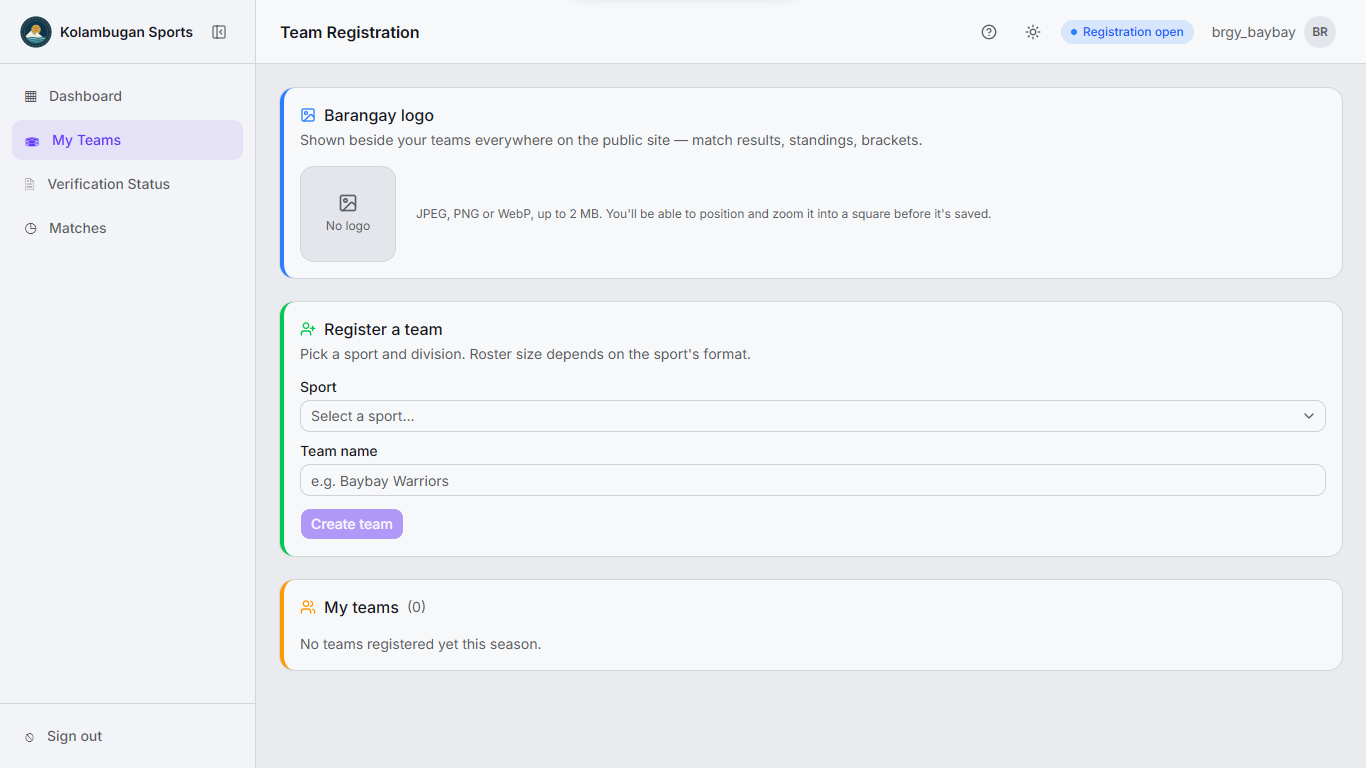
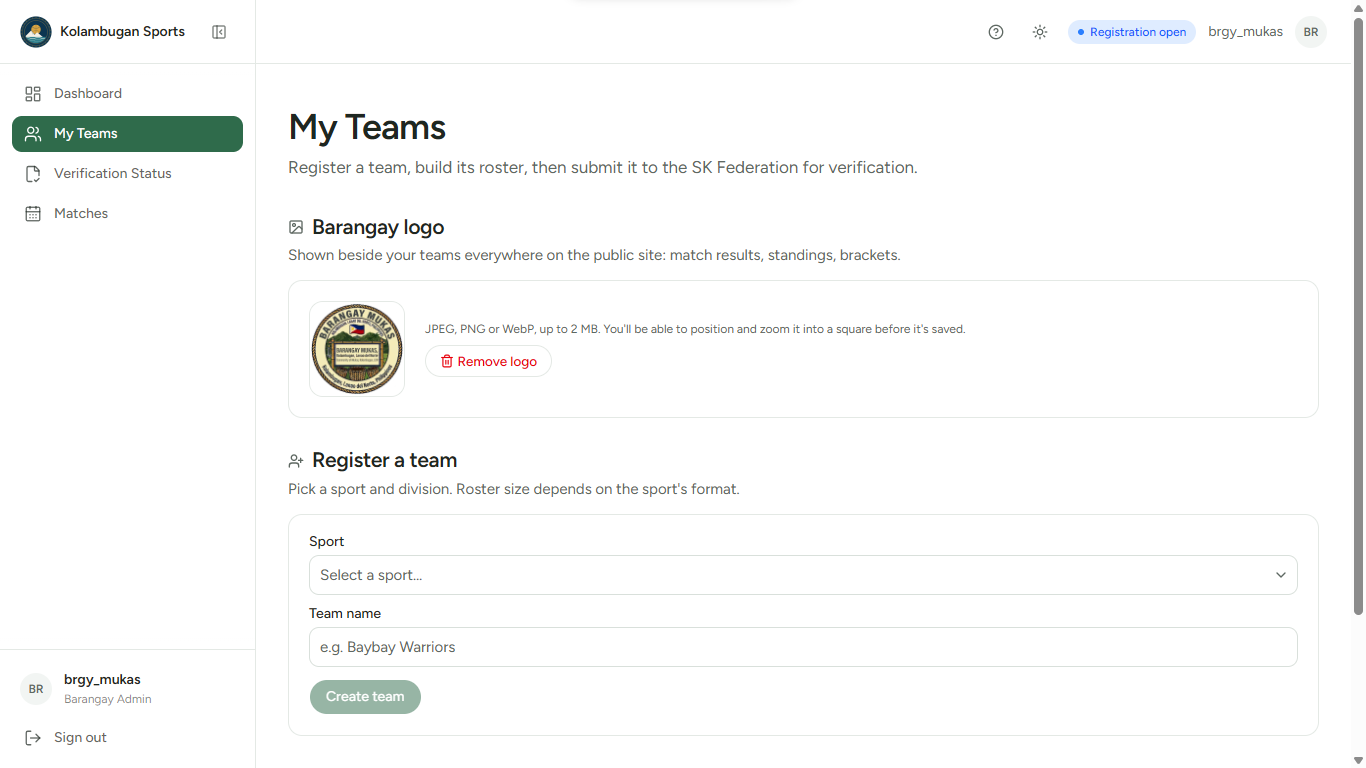
Instruction guide: new screenshots for the redesigned admin, old ones removed

diff --git a/frontend/src/lib/instructionContent.js b/frontend/src/lib/instructionContent.js
@@ -38,11 +38,7 @@ const RAW_STEPS = {
       description:
         "Everything else in the app is scoped to whichever season is active. A season runs through five stages (setup, registration, verification, ongoing, completed), and only you can advance it.",
       icon: CalendarRange,
-      shots: [
-        ["create-season.png", "No season yet: tap Create Season"],
-        ["create-season-modal.png", "Name the season"],
-        ["create-season-dashboard.png", "The season page: its stage, and a checklist before you move on"],
-      ],
+      shots: [["create-season.png", "The Season page: its stage, the seasons before it, and Create New Season"]],
     },
     {
       title: "Reference List",
@@ -51,8 +47,7 @@ const RAW_STEPS = {
       icon: ClipboardList,
       shots: [
         ["reference-list.png", "The Reference List page"],
-        ["reference-list-upload.png", "Upload the CSV"],
-        ["reference-list-uploadedlist.png", "The uploaded list, searchable"],
+        ["reference-upload.png", "Choose the CSV, then tap Upload & Replace List"],
       ],
     },
     {
@@ -61,9 +56,8 @@ const RAW_STEPS = {
         "Players the system can't confirm land here as “needs document” or “flagged.” Open a player to compare their photo against their submitted ID, then Approve or Reject. Rejecting removes the player and reopens the roster so the barangay can fix it.",
       icon: UserCheck,
       shots: [
-        ["review-queue.png", "Teams waiting for review, filtered by barangay"],
-        ["review-queue-modal.png", "A player's photo, details and documents side by side"],
-        ["review-queue-modal-2.png", "Approve or reject the player"],
+        ["review-queue.png", "Pick a barangay: red shows how many teams are waiting"],
+        ["review-queue-modal.png", "A player's photo, details and documents side by side, then Approve or Reject"],
       ],
     },
     {
@@ -72,8 +66,9 @@ const RAW_STEPS = {
         "Configure each sport's divisions, roster format, scoring rules and after-match score sheet here, and which barangays may field players from other barangays. Set these before registration opens, since changing them afterward would invalidate rosters already built against the old settings.",
       icon: Settings2,
       shots: [
-        ["league-setup-games.png", "Games: divisions, entry format, scoring and score sheet"],
-        ["league-setup-brgy.png", "Barangays: who may field players from other barangays"],
+        ["league-setup.png", "Games: every game with its divisions, entry and draw"],
+        ["league-setup2.png", "Open a game and set it up step by step"],
+        ["league-setup3.png", "Barangays: who may field players from other barangays"],
       ],
     },
     {
@@ -104,12 +99,12 @@ const RAW_STEPS = {
     {
       title: "Your profile & recovery code",
       description:
-        "Tap your name at the top right to change your password or add a profile photo. Generate a recovery code and keep it somewhere safe: it's the only way back in if you forget your password, since no one can reset a Super Admin's password for you.",
+        "Tap your name above Sign out (bottom of the sidebar) to change your password, add a profile photo or a Dashboard banner picture. Generate a recovery code and keep it somewhere safe: it's the only way back in if you forget your password, since no one can reset a Super Admin's password for you.",
       icon: UserCircle,
       shots: [
-        ["profile.png", "Your name at the top right opens your profile"],
-        ["profile-info.png", "Change your password, or set up account recovery"],
-        ["profile-generated-recovery.png", "A new recovery code is shown only once. Save it"],
+        ["profile.png", "Your name above Sign out opens your profile"],
+        ["profile-info.png", "Profile photo, Dashboard banner and password"],
+        ["profile-recovery.png", "Account recovery: enter your password to generate a code. It's shown only once"],
       ],
     },
   ],
@@ -127,11 +122,10 @@ const RAW_STEPS = {
         "From My Teams, pick a sport and division, name the team, then open its roster and add players: name, birthdate, address, jersey number, and a close-up photo. You can also import a CSV.",
       icon: UserPlus,
       shots: [
-        ["teams.png", "My Teams"],
-        ["teams-create.png", "Pick the sport"],
-        ["teams-create-2.png", "Name the team and tap Create team"],
-        ["teams-created.png", "The new team is a draft. Tap Edit roster"],
-        ["teams-modal-edit-roster.png", "Add your players"],
+        ["teams.png", "My Teams: your barangay logo and Register a team"],
+        ["team-create.png", "Pick the sport and division, name the team, tap Create team"],
+        ["team-created.png", "The new team is a draft. Tap Edit roster"],
+        ["team-modal-edit-roster.png", "Add your players one by one, or Import CSV"],
       ],
     },
     {
@@ -141,7 +135,7 @@ const RAW_STEPS = {
       icon: ClipboardList,
       shots: [
         ["verification-status.png", "Verification Status: every player's result"],
-        ["verification-status-document.png", "Pick the document type and upload the file"],
+        ["verification-status-document.png", "Pick the document type, then choose the file"],
       ],
     },
     {
@@ -149,7 +143,7 @@ const RAW_STEPS = {
       description:
         "Once your roster meets the size limit, submit it. It locks and gets screened automatically. Watch each player's status turn eligible, or follow up if one comes back flagged.",
       icon: Send,
-      shots: [["teams-submit-modal.png", "Roster ready: tap Submit roster"]],
+      shots: [["team-submit-modal.png", "Roster ready: tap Submit roster"]],
     },
     {
       title: "Follow your matches",
@@ -164,10 +158,7 @@ const RAW_STEPS = {
       title: "Welcome, Organizer",
       description: "You score matches for your assigned sport, courtside, in real time. The Dashboard shows the game being played now, today's schedule and how far each bracket has got.",
       icon: Radio,
-      shots: [
-        ["dashboard-1.png", "Your Dashboard"],
-        ["dashboard-2.png", "Today, the schedule, bracket progress and recent results"],
-      ],
+      shots: [["dashboard.png", "Your Dashboard: your sport, the season, today's games and what needs attention"]],
     },
     {
       title: "Find your match",
@@ -182,7 +173,7 @@ const RAW_STEPS = {
         "Pick how many periods you're playing, tap Start, then tap the team that scored (+1, +2 or +3 in basketball). Scoring is by team. You don't pick players while the game runs. Everything updates live on the public site as you go.",
       icon: Play,
       shots: [
-        ["start.png", "Choose the number of periods and tap Start"],
+        ["start.png", "Choose the number of periods and tap Start match"],
         ["scoring.png", "Tap the team that scored"],
       ],
     },
@@ -198,6 +189,7 @@ const RAW_STEPS = {
       description:
         "After the match, a score sheet lists every player. Fill in the columns the Super Admin set up for your sport (for example points, fouls, rebounds, blocks and assists in basketball; the role each player played, and kills / deaths / assists, in esports). Leave a player blank if they didn't play, choose the MVP and Save. You can come back and correct it later.",
       icon: ClipboardList,
+      shots: [["scoresheet.png", "Player stats: each player's totals, team by team, then Save"]],
     },
   ],
 };

diff --git a/CLAUDE.md b/CLAUDE.md
@@ -2437,7 +2437,7 @@ Repo: one git repo, two folders. `backend/` (Express + MongoDB Atlas;
   `StepShots` shows one large + a thumbnail strip of all of them; clicking the
   large one opens the shared zoomable `Lightbox` (`components/DocumentViewer.jsx`)
   in gallery mode (`onPrev`/`onNext`/`caption`/`position`). A step with no shots
-  shows its icon (Organizer "Fill in the player stats" has none yet).
+  shows its icon. **All screenshots re-captured Oct 3 2026** after the white admin / banner redesign (32 pictures; the old ones were deleted; Organizer "Fill in the player stats" now has ).
   **The modal has a FIXED height** (`h-[92dvh] md:h-[min(92dvh,760px)]`, `sm:max-w-6xl`)
   — it used to size to each step, and being centred it jumped on every Next.
   Measured: identical top/height across all steps at 1366x768 and 390x844. All

diff --git a/CHANGES.md b/CHANGES.md
@@ -3729,3 +3729,4 @@ its filename and status, making "should I delete this and re-upload" a guess.
   closing statement).
 - Admin light mode: pale green-tinted page with white sidebar and cards (from the reference), green accent kept.
 - Admin light mode: plain white page, sidebar and cards (replaces the pale green page), green accent kept.
+- Instruction guide: every screenshot re-captured for the new admin look (old pictures removed); profile step text now points to the name above Sign out.
